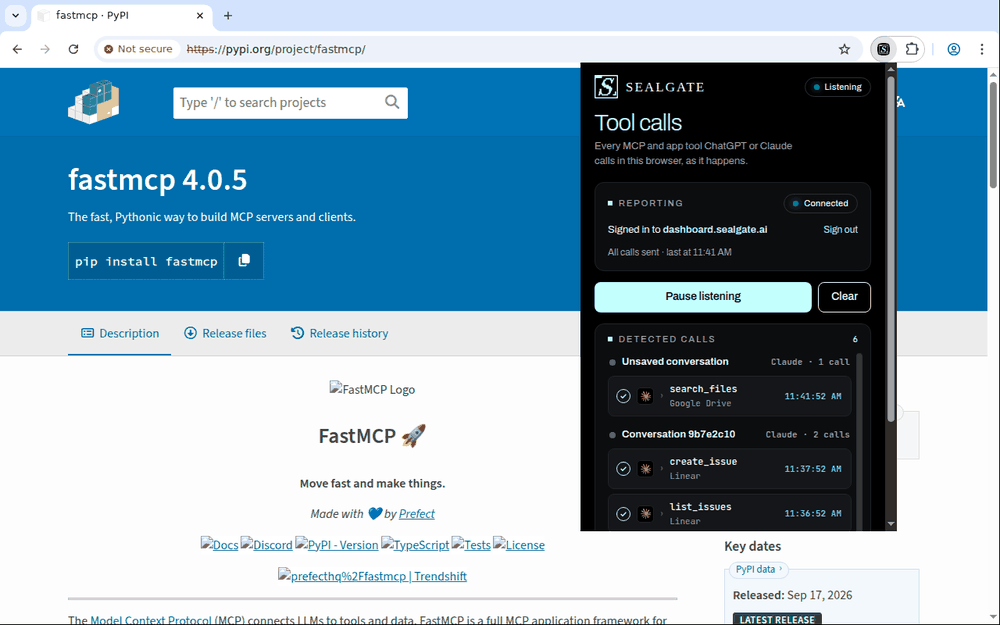
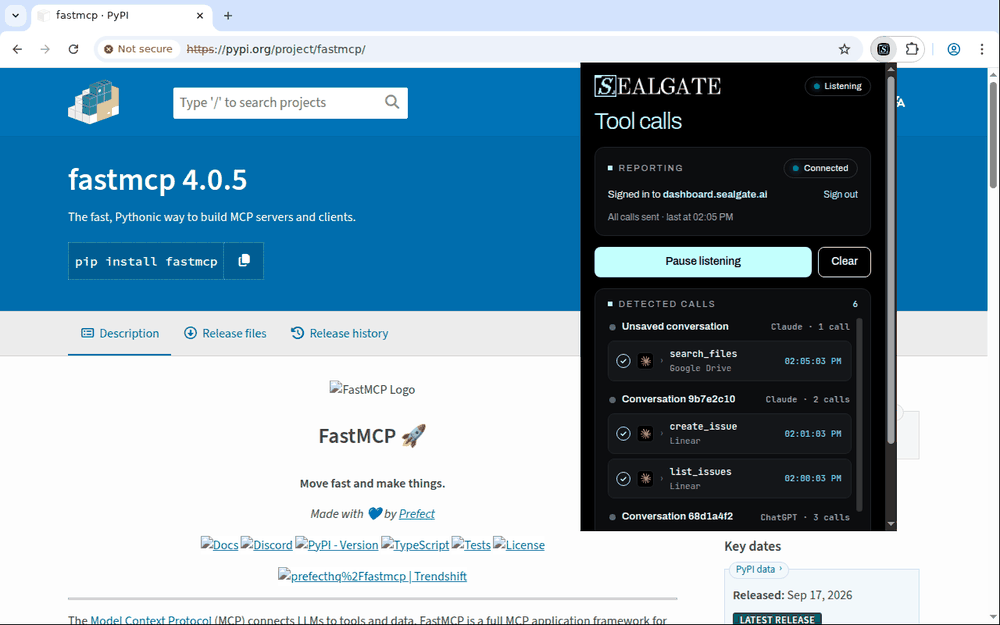
Use the SealGate wordmark and drop the subtitle
The header shows the wordmark the dashboard sidebar uses, a downscaled
copy of logo-dark.png from the SealGate repository at the sidebar's 28px
height, in place of the pixel mark beside "SealGate" set in a serif. The
sentence under the "Tool calls" headline is gone. The mark component and
its path data had no other use here and are removed with it.

Claude-Session: https://claude.ai/code/session_01T7MPgmAD8Jo9oVJJ871GqZ

diff --git a/src/popup/brand.ts b/src/popup/brand.ts
@@ -1,186 +1,5 @@
-// Brand assets shared by the popup: the SealGate pixel-art "S" mark (path data
-// mirrored from packages/shared/src/svg/edison-logo-svg.ts in the SealGate
-// repository) and the ChatGPT and Claude marks from its agent registry.
-
-export const SEALGATE_MARK_VIEWBOX = '0 0 391 391';
-
-/** The pixel-art "S" letterform. */
-export const SEALGATE_MARK_LETTER_PATH =
-  'M190.24 53.1H278.15A5.8 5.8 0 0 1 283.95 58.9V69.42A5.8 5.8 0 0 1 278.15' +
-  ' 75.22H190.24A5.8 5.8 0 0 1 184.44 69.42V58.9A5.8 5.8 0 0 1 190.24 53.1Z' +
-  ' M311.88 53.1H322.39A5.8 5.8 0 0 1 328.19 58.9V69.42A5.8 5.8 0 0 1 322.3' +
-  '9 75.22H311.88A5.8 5.8 0 0 1 306.07 69.42V58.9A5.8 5.8 0 0 1 311.88 53.1' +
-  'Z M157.07 75.22H189.69A5.8 5.8 0 0 1 195.5 81.02V91.54A5.8 5.8 0 0 1 189' +
-  '.69 97.34H157.07A5.8 5.8 0 0 1 151.27 91.54V81.02A5.8 5.8 0 0 1 157.07 7' +
-  '5.22Z M267.65 75.22H311.34A5.8 5.8 0 0 1 317.14 81.02V91.54A5.8 5.8 0 0 ' +
-  '1 311.34 97.34H267.65A5.8 5.8 0 0 1 261.85 91.54V81.02A5.8 5.8 0 0 1 267' +
-  '.65 75.22Z M146.01 97.33H167.57A5.8 5.8 0 0 1 173.38 103.13V113.65A5.8 5' +
-  '.8 0 0 1 167.57 119.45H146.01A5.8 5.8 0 0 1 140.21 113.65V103.13A5.8 5.8' +
-  ' 0 0 1 146.01 97.33Z M278.71 97.33H300.28A5.8 5.8 0 0 1 306.08 103.13V11' +
-  '3.65A5.8 5.8 0 0 1 300.28 119.45H278.71A5.8 5.8 0 0 1 272.91 113.65V103.' +
-  '13A5.8 5.8 0 0 1 278.71 97.33Z M134.96 119.45H167.58A5.8 5.8 0 0 1 173.3' +
-  '8 125.25V135.77A5.8 5.8 0 0 1 167.58 141.57H134.96A5.8 5.8 0 0 1 129.16 ' +
-  '135.77V125.25A5.8 5.8 0 0 1 134.96 119.45Z M278.71 119.45H289.23A5.8 5.8' +
-  ' 0 0 1 295.03 125.25V135.77A5.8 5.8 0 0 1 289.23 141.57H278.71A5.8 5.8 0' +
-  ' 0 1 272.91 135.77V125.25A5.8 5.8 0 0 1 278.71 119.45Z M123.89 141.56H17' +
-  '8.64A5.8 5.8 0 0 1 184.44 147.36V157.88A5.8 5.8 0 0 1 178.64 163.68H123.' +
-  '89A5.8 5.8 0 0 1 118.09 157.88V147.36A5.8 5.8 0 0 1 123.89 141.56Z M134.' +
-  '96 163.68H233.94A5.8 5.8 0 0 1 239.74 169.48V180A5.8 5.8 0 0 1 233.94 18' +
-  '5.8H134.96A5.8 5.8 0 0 1 129.16 180V169.48A5.8 5.8 0 0 1 134.96 163.68Z ' +
-  'M157.07 185.79H267.09A5.8 5.8 0 0 1 272.89 191.59V202.11A5.8 5.8 0 0 1 2' +
-  '67.09 207.91H157.07A5.8 5.8 0 0 1 151.27 202.11V191.59A5.8 5.8 0 0 1 157' +
-  '.07 185.79Z M201.3 207.91H289.21A5.8 5.8 0 0 1 295.01 213.71V224.23A5.8 ' +
-  '5.8 0 0 1 289.21 230.03H201.3A5.8 5.8 0 0 1 195.5 224.23V213.71A5.8 5.8 ' +
-  '0 0 1 201.3 207.91Z M90.73 230.02H112.3A5.8 5.8 0 0 1 118.1 235.82V246.3' +
-  '4A5.8 5.8 0 0 1 112.3 252.14H90.73A5.8 5.8 0 0 1 84.93 246.34V235.82A5.8' +
-  ' 5.8 0 0 1 90.73 230.02Z M245.53 230.02H289.22A5.8 5.8 0 0 1 295.02 235.' +
-  '82V246.34A5.8 5.8 0 0 1 289.22 252.14H245.53A5.8 5.8 0 0 1 239.73 246.34' +
-  'V235.82A5.8 5.8 0 0 1 245.53 230.02Z M90.73 252.14H112.3A5.8 5.8 0 0 1 1' +
-  '18.1 257.94V268.46A5.8 5.8 0 0 1 112.3 274.26H90.73A5.8 5.8 0 0 1 84.93 ' +
-  '268.46V257.94A5.8 5.8 0 0 1 90.73 252.14Z M245.53 252.14H278.16A5.8 5.8 ' +
-  '0 0 1 283.96 257.94V268.46A5.8 5.8 0 0 1 278.16 274.26H245.53A5.8 5.8 0 ' +
-  '0 1 239.73 268.46V257.94A5.8 5.8 0 0 1 245.53 252.14Z M79.67 274.25H112.' +
-  '3A5.8 5.8 0 0 1 118.09 280.05V290.57A5.8 5.8 0 0 1 112.3 296.37H79.67A5.' +
-  '8 5.8 0 0 1 73.87 290.57V280.05A5.8 5.8 0 0 1 79.67 274.25Z M245.53 274.' +
-  '25H267.1A5.8 5.8 0 0 1 272.9 280.05V290.57A5.8 5.8 0 0 1 267.1 296.37H24' +
-  '5.53A5.8 5.8 0 0 1 239.73 290.57V280.05A5.8 5.8 0 0 1 245.53 274.25Z M79' +
-  '.67 296.37H123.36A5.8 5.8 0 0 1 129.16 302.17V312.69A5.8 5.8 0 0 1 123.3' +
-  '6 318.49H79.67A5.8 5.8 0 0 1 73.87 312.69V302.17A5.8 5.8 0 0 1 79.67 296' +
-  '.37Z M223.42 296.37H256.05A5.8 5.8 0 0 1 261.85 302.17V312.69A5.8 5.8 0 ' +
-  '0 1 256.05 318.49H223.42A5.8 5.8 0 0 1 217.62 312.69V302.17A5.8 5.8 0 0 ' +
-  '1 223.42 296.37Z M68.61 318.48H90.18A5.8 5.8 0 0 1 95.98 324.28V334.8A5.' +
-  '8 5.8 0 0 1 90.18 340.6H68.61A5.8 5.8 0 0 1 62.81 334.8V324.28A5.8 5.8 0' +
-  ' 0 1 68.61 318.48Z M123.89 318.48H222.88A5.8 5.8 0 0 1 228.68 324.28V334' +
-  '.8A5.8 5.8 0 0 1 222.88 340.6H123.89A5.8 5.8 0 0 1 118.09 334.8V324.28A5' +
-  '.8 5.8 0 0 1 123.89 318.48Z M68.34 318.48H68.34A5.53 5.53 0 0 1 73.87 32' +
-  '4.01V335.07A5.53 5.53 0 0 1 68.34 340.6H68.34A5.53 5.53 0 0 1 62.81 335.' +
-  '07V324.01A5.53 5.53 0 0 1 68.34 318.48Z M79.4 274.25H79.4A5.53 5.53 0 0 ' +
-  '1 84.93 279.78V335.07A5.53 5.53 0 0 1 79.4 340.6H79.4A5.53 5.53 0 0 1 73' +
-  '.87 335.07V279.78A5.53 5.53 0 0 1 79.4 274.25Z M90.46 230.02H90.46A5.53 ' +
-  '5.53 0 0 1 95.99 235.55V335.07A5.53 5.53 0 0 1 90.46 340.6H90.46A5.53 5.' +
-  '53 0 0 1 84.93 335.07V235.55A5.53 5.53 0 0 1 90.46 230.02Z M101.5 230.02' +
-  'H101.5A5.53 5.53 0 0 1 107.03 235.55V312.95A5.53 5.53 0 0 1 101.5 318.48' +
-  'H101.5A5.53 5.53 0 0 1 95.97 312.95V235.55A5.53 5.53 0 0 1 101.5 230.02Z' +
-  ' M112.56 230.02H112.56A5.53 5.53 0 0 1 118.09 235.55V312.95A5.53 5.53 0 ' +
-  '0 1 112.56 318.48H112.56A5.53 5.53 0 0 1 107.03 312.95V235.55A5.53 5.53 ' +
-  '0 0 1 112.56 230.02Z M123.63 141.56H123.63A5.53 5.53 0 0 1 129.16 147.09' +
-  'V158.15A5.53 5.53 0 0 1 123.63 163.68H123.63A5.53 5.53 0 0 1 118.09 158.' +
-  '15V147.09A5.53 5.53 0 0 1 123.63 141.56Z M123.63 296.37H123.63A5.53 5.53' +
-  ' 0 0 1 129.16 301.9V335.07A5.53 5.53 0 0 1 123.63 340.6H123.63A5.53 5.53' +
-  ' 0 0 1 118.09 335.07V301.9A5.53 5.53 0 0 1 123.63 296.37Z M134.69 119.45' +
-  'H134.69A5.53 5.53 0 0 1 140.22 124.98V180.27A5.53 5.53 0 0 1 134.69 185.' +
-  '8H134.69A5.53 5.53 0 0 1 129.16 180.27V124.98A5.53 5.53 0 0 1 134.69 119' +
-  '.45Z M134.69 318.48H134.69A5.53 5.53 0 0 1 140.22 324.01V335.07A5.53 5.5' +
-  '3 0 0 1 134.69 340.6H134.69A5.53 5.53 0 0 1 129.16 335.07V324.01A5.53 5.' +
-  '53 0 0 1 134.69 318.48Z M145.74 97.33H145.74A5.53 5.53 0 0 1 151.27 102.' +
-  '86V180.26A5.53 5.53 0 0 1 145.74 185.79H145.74A5.53 5.53 0 0 1 140.21 18' +
-  '0.26V102.86A5.53 5.53 0 0 1 145.74 97.33Z M145.74 318.48H145.74A5.53 5.5' +
-  '3 0 0 1 151.27 324.01V335.07A5.53 5.53 0 0 1 145.74 340.6H145.74A5.53 5.' +
-  '53 0 0 1 140.21 335.07V324.01A5.53 5.53 0 0 1 145.74 318.48Z M156.8 75.2' +
-  '2H156.8A5.53 5.53 0 0 1 162.33 80.75V202.38A5.53 5.53 0 0 1 156.8 207.91' +
-  'H156.8A5.53 5.53 0 0 1 151.27 202.38V80.75A5.53 5.53 0 0 1 156.8 75.22Z ' +
-  'M156.8 318.48H156.8A5.53 5.53 0 0 1 162.33 324.01V335.07A5.53 5.53 0 0 1' +
-  ' 156.8 340.6H156.8A5.53 5.53 0 0 1 151.27 335.07V324.01A5.53 5.53 0 0 1 ' +
-  '156.8 318.48Z M167.86 75.22H167.86A5.53 5.53 0 0 1 173.39 80.75V202.38A5' +
-  '.53 5.53 0 0 1 167.86 207.91H167.86A5.53 5.53 0 0 1 162.33 202.38V80.75A' +
-  '5.53 5.53 0 0 1 167.86 75.22Z M167.86 318.48H167.86A5.53 5.53 0 0 1 173.' +
-  '39 324.01V335.07A5.53 5.53 0 0 1 167.86 340.6H167.86A5.53 5.53 0 0 1 162' +
-  '.33 335.07V324.01A5.53 5.53 0 0 1 167.86 318.48Z M178.92 75.22H178.92A5.' +
-  '53 5.53 0 0 1 184.45 80.75V91.81A5.53 5.53 0 0 1 178.92 97.34H178.92A5.5' +
-  '3 5.53 0 0 1 173.39 91.81V80.75A5.53 5.53 0 0 1 178.92 75.22Z M178.92 14' +
-  '1.56H178.92A5.53 5.53 0 0 1 184.45 147.09V202.38A5.53 5.53 0 0 1 178.92 ' +
-  '207.91H178.92A5.53 5.53 0 0 1 173.39 202.38V147.09A5.53 5.53 0 0 1 178.9' +
-  '2 141.56Z M178.92 318.48H178.92A5.53 5.53 0 0 1 184.45 324.01V335.07A5.5' +
-  '3 5.53 0 0 1 178.92 340.6H178.92A5.53 5.53 0 0 1 173.39 335.07V324.01A5.' +
-  '53 5.53 0 0 1 178.92 318.48Z M189.97 53.1H189.97A5.53 5.53 0 0 1 195.5 5' +
-  '8.63V91.8A5.53 5.53 0 0 1 189.97 97.33H189.97A5.53 5.53 0 0 1 184.44 91.' +
-  '8V58.63A5.53 5.53 0 0 1 189.97 53.1Z M189.97 163.68H189.97A5.53 5.53 0 0' +
-  ' 1 195.5 169.21V202.38A5.53 5.53 0 0 1 189.97 207.91H189.97A5.53 5.53 0 ' +
-  '0 1 184.44 202.38V169.21A5.53 5.53 0 0 1 189.97 163.68Z M189.97 318.48H1' +
-  '89.97A5.53 5.53 0 0 1 195.5 324.01V335.07A5.53 5.53 0 0 1 189.97 340.6H1' +
-  '89.97A5.53 5.53 0 0 1 184.44 335.07V324.01A5.53 5.53 0 0 1 189.97 318.48' +
-  'Z M201.03 53.1H201.03A5.53 5.53 0 0 1 206.56 58.63V69.69A5.53 5.53 0 0 1' +
-  ' 201.03 75.22H201.03A5.53 5.53 0 0 1 195.5 69.69V58.63A5.53 5.53 0 0 1 2' +
-  '01.03 53.1Z M201.03 163.68H201.03A5.53 5.53 0 0 1 206.56 169.21V224.5A5.' +
-  '53 5.53 0 0 1 201.03 230.03H201.03A5.53 5.53 0 0 1 195.5 224.5V169.21A5.' +
-  '53 5.53 0 0 1 201.03 163.68Z M201.03 318.48H201.03A5.53 5.53 0 0 1 206.5' +
-  '6 324.01V335.07A5.53 5.53 0 0 1 201.03 340.6H201.03A5.53 5.53 0 0 1 195.' +
-  '5 335.07V324.01A5.53 5.53 0 0 1 201.03 318.48Z M212.09 53.1H212.09A5.53 ' +
-  '5.53 0 0 1 217.62 58.63V69.69A5.53 5.53 0 0 1 212.09 75.22H212.09A5.53 5' +
-  '.53 0 0 1 206.56 69.69V58.63A5.53 5.53 0 0 1 212.09 53.1Z M212.09 163.68' +
-  'H212.09A5.53 5.53 0 0 1 217.62 169.21V224.5A5.53 5.53 0 0 1 212.09 230.0' +
-  '3H212.09A5.53 5.53 0 0 1 206.56 224.5V169.21A5.53 5.53 0 0 1 212.09 163.' +
-  '68Z M212.09 318.48H212.09A5.53 5.53 0 0 1 217.62 324.01V335.07A5.53 5.53' +
-  ' 0 0 1 212.09 340.6H212.09A5.53 5.53 0 0 1 206.56 335.07V324.01A5.53 5.5' +
-  '3 0 0 1 212.09 318.48Z M223.15 53.1H223.15A5.53 5.53 0 0 1 228.68 58.63V' +
-  '69.69A5.53 5.53 0 0 1 223.15 75.22H223.15A5.53 5.53 0 0 1 217.62 69.69V5' +
-  '8.63A5.53 5.53 0 0 1 223.15 53.1Z M223.15 163.68H223.15A5.53 5.53 0 0 1 ' +
-  '228.68 169.21V224.5A5.53 5.53 0 0 1 223.15 230.03H223.15A5.53 5.53 0 0 1' +
-  ' 217.62 224.5V169.21A5.53 5.53 0 0 1 223.15 163.68Z M223.15 296.37H223.1' +
-  '5A5.53 5.53 0 0 1 228.68 301.9V335.07A5.53 5.53 0 0 1 223.15 340.6H223.1' +
-  '5A5.53 5.53 0 0 1 217.62 335.07V301.9A5.53 5.53 0 0 1 223.15 296.37Z M23' +
-  '4.21 53.1H234.21A5.53 5.53 0 0 1 239.74 58.63V69.69A5.53 5.53 0 0 1 234.' +
-  '21 75.22H234.21A5.53 5.53 0 0 1 228.68 69.69V58.63A5.53 5.53 0 0 1 234.2' +
-  '1 53.1Z M234.21 163.68H234.21A5.53 5.53 0 0 1 239.74 169.21V224.5A5.53 5' +
-  '.53 0 0 1 234.21 230.03H234.21A5.53 5.53 0 0 1 228.68 224.5V169.21A5.53 ' +
-  '5.53 0 0 1 234.21 163.68Z M234.21 296.37H234.21A5.53 5.53 0 0 1 239.74 3' +
-  '01.9V312.96A5.53 5.53 0 0 1 234.21 318.49H234.21A5.53 5.53 0 0 1 228.68 ' +
-  '312.96V301.9A5.53 5.53 0 0 1 234.21 296.37Z M245.26 53.1H245.26A5.53 5.5' +
-  '3 0 0 1 250.79 58.63V69.69A5.53 5.53 0 0 1 245.26 75.22H245.26A5.53 5.53' +
-  ' 0 0 1 239.73 69.69V58.63A5.53 5.53 0 0 1 245.26 53.1Z M245.26 185.79H24' +
-  '5.26A5.53 5.53 0 0 1 250.79 191.32V312.95A5.53 5.53 0 0 1 245.26 318.48H' +
-  '245.26A5.53 5.53 0 0 1 239.73 312.95V191.32A5.53 5.53 0 0 1 245.26 185.7' +
-  '9Z M256.31 53.1H256.32A5.53 5.53 0 0 1 261.85 58.63V69.69A5.53 5.53 0 0 ' +
-  '1 256.32 75.22H256.31A5.53 5.53 0 0 1 250.79 69.69V58.63A5.53 5.53 0 0 1' +
-  ' 256.31 53.1Z M256.31 185.79H256.32A5.53 5.53 0 0 1 261.85 191.32V312.95' +
-  'A5.53 5.53 0 0 1 256.32 318.48H256.31A5.53 5.53 0 0 1 250.79 312.95V191.' +
-  '32A5.53 5.53 0 0 1 256.31 185.79Z M267.38 53.1H267.38A5.53 5.53 0 0 1 27' +
-  '2.91 58.63V91.8A5.53 5.53 0 0 1 267.38 97.33H267.38A5.53 5.53 0 0 1 261.' +
-  '85 91.8V58.63A5.53 5.53 0 0 1 267.38 53.1Z M267.38 185.79H267.38A5.53 5.' +
-  '53 0 0 1 272.91 191.32V290.84A5.53 5.53 0 0 1 267.38 296.37H267.38A5.53 ' +
-  '5.53 0 0 1 261.85 290.84V191.32A5.53 5.53 0 0 1 267.38 185.79Z M278.44 5' +
-  '3.1H278.44A5.53 5.53 0 0 1 283.97 58.63V136.03A5.53 5.53 0 0 1 278.44 14' +
-  '1.56H278.44A5.53 5.53 0 0 1 272.91 136.03V58.63A5.53 5.53 0 0 1 278.44 5' +
-  '3.1Z M278.44 207.91H278.44A5.53 5.53 0 0 1 283.97 213.44V268.73A5.53 5.5' +
-  '3 0 0 1 278.44 274.26H278.44A5.53 5.53 0 0 1 272.91 268.73V213.44A5.53 5' +
-  '.53 0 0 1 278.44 207.91Z M289.48 75.22H289.49A5.53 5.53 0 0 1 295.01 80.' +
-  '75V136.04A5.53 5.53 0 0 1 289.49 141.57H289.48A5.53 5.53 0 0 1 283.95 13' +
-  '6.04V80.75A5.53 5.53 0 0 1 289.48 75.22Z M289.48 207.91H289.49A5.53 5.53' +
-  ' 0 0 1 295.01 213.44V246.61A5.53 5.53 0 0 1 289.49 252.14H289.48A5.53 5.' +
-  '53 0 0 1 283.95 246.61V213.44A5.53 5.53 0 0 1 289.48 207.91Z M300.54 75.' +
-  '22H300.55A5.53 5.53 0 0 1 306.07 80.75V113.92A5.53 5.53 0 0 1 300.55 119' +
-  '.45H300.54A5.53 5.53 0 0 1 295.01 113.92V80.75A5.53 5.53 0 0 1 300.54 75' +
-  '.22Z M311.6 53.1H311.61A5.53 5.53 0 0 1 317.13 58.63V91.8A5.53 5.53 0 0 ' +
-  '1 311.61 97.33H311.6A5.53 5.53 0 0 1 306.07 91.8V58.63A5.53 5.53 0 0 1 3' +
-  '11.6 53.1Z M322.66 53.1H322.67A5.53 5.53 0 0 1 328.19 58.63V69.69A5.53 5' +
-  '.53 0 0 1 322.67 75.22H322.66A5.53 5.53 0 0 1 317.13 69.69V58.63A5.53 5.' +
-  '53 0 0 1 322.66 53.1Z M344.38 274.25H354.9A5.8 5.8 0 0 1 360.7 280.05V29' +
-  '0.57A5.8 5.8 0 0 1 354.9 296.37H344.38A5.8 5.8 0 0 1 338.58 290.57V280.0' +
-  '5A5.8 5.8 0 0 1 344.38 274.25Z M344.38 296.37H354.9A5.8 5.8 0 0 1 360.7 ' +
-  '302.17V312.69A5.8 5.8 0 0 1 354.9 318.49H344.38A5.8 5.8 0 0 1 338.58 312' +
-  '.69V302.17A5.8 5.8 0 0 1 344.38 296.37Z M311.21 318.48H354.9A5.8 5.8 0 0' +
-  ' 1 360.7 324.28V334.8A5.8 5.8 0 0 1 354.9 340.6H311.21A5.8 5.8 0 0 1 305' +
-  '.41 334.8V324.28A5.8 5.8 0 0 1 311.21 318.48Z M310.94 318.48H310.94A5.53' +
-  ' 5.53 0 0 1 316.47 324.01V335.07A5.53 5.53 0 0 1 310.94 340.6H310.94A5.5' +
-  '3 5.53 0 0 1 305.41 335.07V324.01A5.53 5.53 0 0 1 310.94 318.48Z M321.99' +
-  ' 318.48H321.99A5.53 5.53 0 0 1 327.52 324.01V335.07A5.53 5.53 0 0 1 321.' +
-  '99 340.6H321.99A5.53 5.53 0 0 1 316.46 335.07V324.01A5.53 5.53 0 0 1 321' +
-  '.99 318.48Z M333.05 318.48H333.05A5.53 5.53 0 0 1 338.58 324.01V335.07A5' +
-  '.53 5.53 0 0 1 333.05 340.6H333.05A5.53 5.53 0 0 1 327.52 335.07V324.01A' +
-  '5.53 5.53 0 0 1 333.05 318.48Z M344.11 274.25H344.11A5.53 5.53 0 0 1 349' +
-  '.64 279.78V335.07A5.53 5.53 0 0 1 344.11 340.6H344.11A5.53 5.53 0 0 1 33' +
-  '8.58 335.07V279.78A5.53 5.53 0 0 1 344.11 274.25Z M355.17 274.25H355.17A' +
-  '5.53 5.53 0 0 1 360.7 279.78V335.07A5.53 5.53 0 0 1 355.17 340.6H355.17A' +
-  '5.53 5.53 0 0 1 349.64 335.07V279.78A5.53 5.53 0 0 1 355.17 274.25Z';
-
-/** The rounded frame with its window cutout. */
-export const SEALGATE_MARK_FRAME_PATH =
-  'M9.775 0H381.23A9.775 9.775 0 0 1 391 9.78V381.23A9.775 9.775 0 0 1 381.' +
-  '23 391H9.775A9.775 9.775 0 0 1 0 381.23V9.775A9.775 9.775 0 0 1 9.78 0ZM' +
-  '124.78 41.54A9.775 9.775 0 0 1 115.01 51.31H28.08A9.775 9.775 0 0 0 18.3' +
-  ' 61.09V361.68A9.775 9.775 0 0 0 28.08 371.45H362.93A9.775 9.775 0 0 0 37' +
-  '2.7 361.68V29.33A9.775 9.775 0 0 0 362.93 19.55H134.56A9.775 9.775 0 0 0' +
-  ' 124.78 29.33Z';
+// The ChatGPT and Claude marks, mirrored from the agent registry in
+// packages/shared of the SealGate repository so they read the same everywhere.
 
 export interface AgentMark {
   viewBox: string;

diff --git a/src/popup/App.svelte b/src/popup/App.svelte
@@ -11,7 +11,6 @@
   } from '../shared/tracker';
   import AgentMark from './AgentMark.svelte';
   import Connection from './Connection.svelte';
-  import Mark from './Mark.svelte';
   import {
     conversationUrl,
     forSite,
@@ -102,23 +101,19 @@
 
 <main>
   <header>
-    <div class="brand">
-      <Mark size={30} />
-      <span class="wordmark">SealGate</span>
-    </div>
+    <img
+      class="wordmark"
+      src="/brand/sealgate-wordmark.png"
+      alt="SealGate"
+      height="28"
+    />
     <span class={`pill ${paused ? 'pill-paused' : 'pill-live'}`}>
       <span class="pill-dot"></span>
       {paused ? 'Paused' : 'Listening'}
     </span>
   </header>
 
-  <div class="hero">
-    <h1>Tool calls</h1>
-    <p class="muted">
-      Every MCP and app tool ChatGPT or Claude calls in this browser, as it
-      happens.
-    </p>
-  </div>
+  <h1>Tool calls</h1>
 
   <Connection />
 
@@ -252,26 +247,10 @@
     justify-content: space-between;
   }
 
-  .brand {
-    align-items: center;
-    color: var(--cyan);
-    display: flex;
-    gap: 10px;
-  }
-
   .wordmark {
-    color: var(--white);
-    font-family: var(--font-serif);
-    font-size: 17px;
-    letter-spacing: 0.12em;
-    line-height: 1;
-    text-transform: uppercase;
-  }
-
-  .hero {
-    display: grid;
-    gap: 4px;
-    padding: 2px 0 2px;
+    display: block;
+    height: 28px;
+    width: auto;
   }
 
   h1 {
@@ -280,11 +259,7 @@
     font-weight: 300;
     letter-spacing: -0.03em;
     line-height: 1.05;
-  }
-
-  .hero p {
-    font-size: 13px;
-    max-width: 34ch;
+    padding: 2px 0;
   }
 
   .controls {

diff --git a/src/popup/theme.css b/src/popup/theme.css
@@ -38,7 +38,6 @@
   --red-soft: rgba(255, 59, 77, 0.14);
   --amber: #febc2e;
   --font-sans: 'Archivo', system-ui, -apple-system, sans-serif;
-  --font-serif: Georgia, 'Times New Roman', Times, serif;
   --font-mono: 'JetBrains Mono', ui-monospace, SFMono-Regular, Menlo, monospace;
 }
 

diff --git a/public/brand/README.md b/public/brand/README.md
@@ -1,0 +1,6 @@
+# Brand assets
+
+- `sealgate-wordmark.png` - the SealGate wordmark (mark plus lockup, dark-ground
+  variant), a downscaled copy of `frontend-v2/src/assets/logo-dark.png` in the
+  SealGate repository, which the dashboard sidebar renders at 28px tall. Keep
+  in sync with that file.
